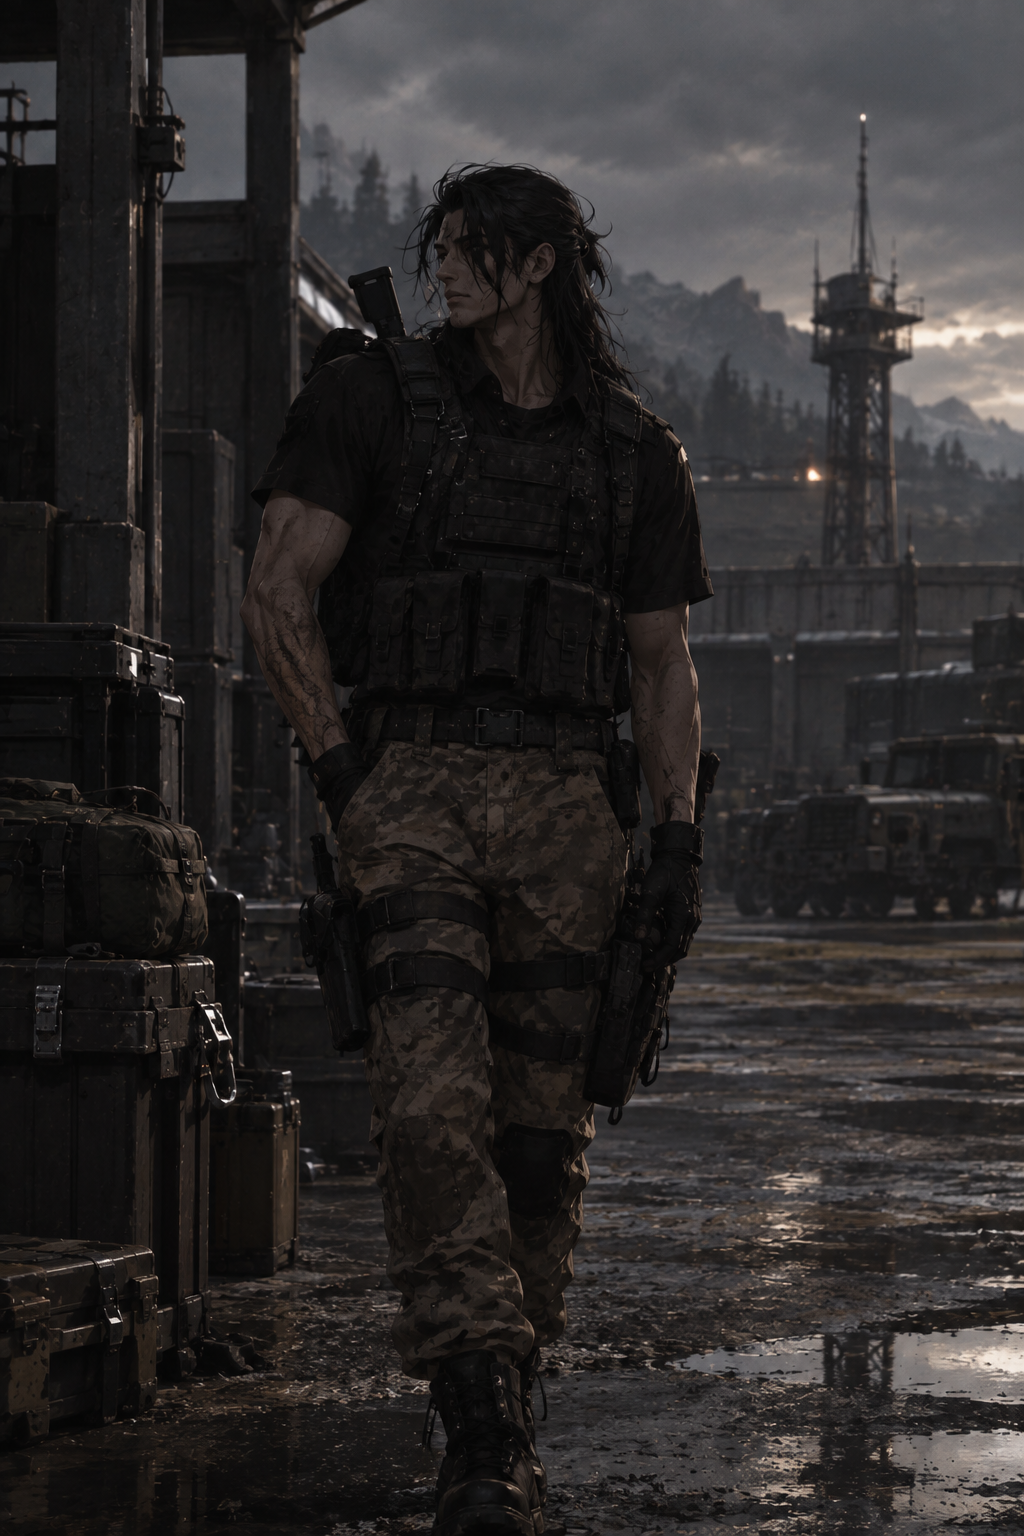
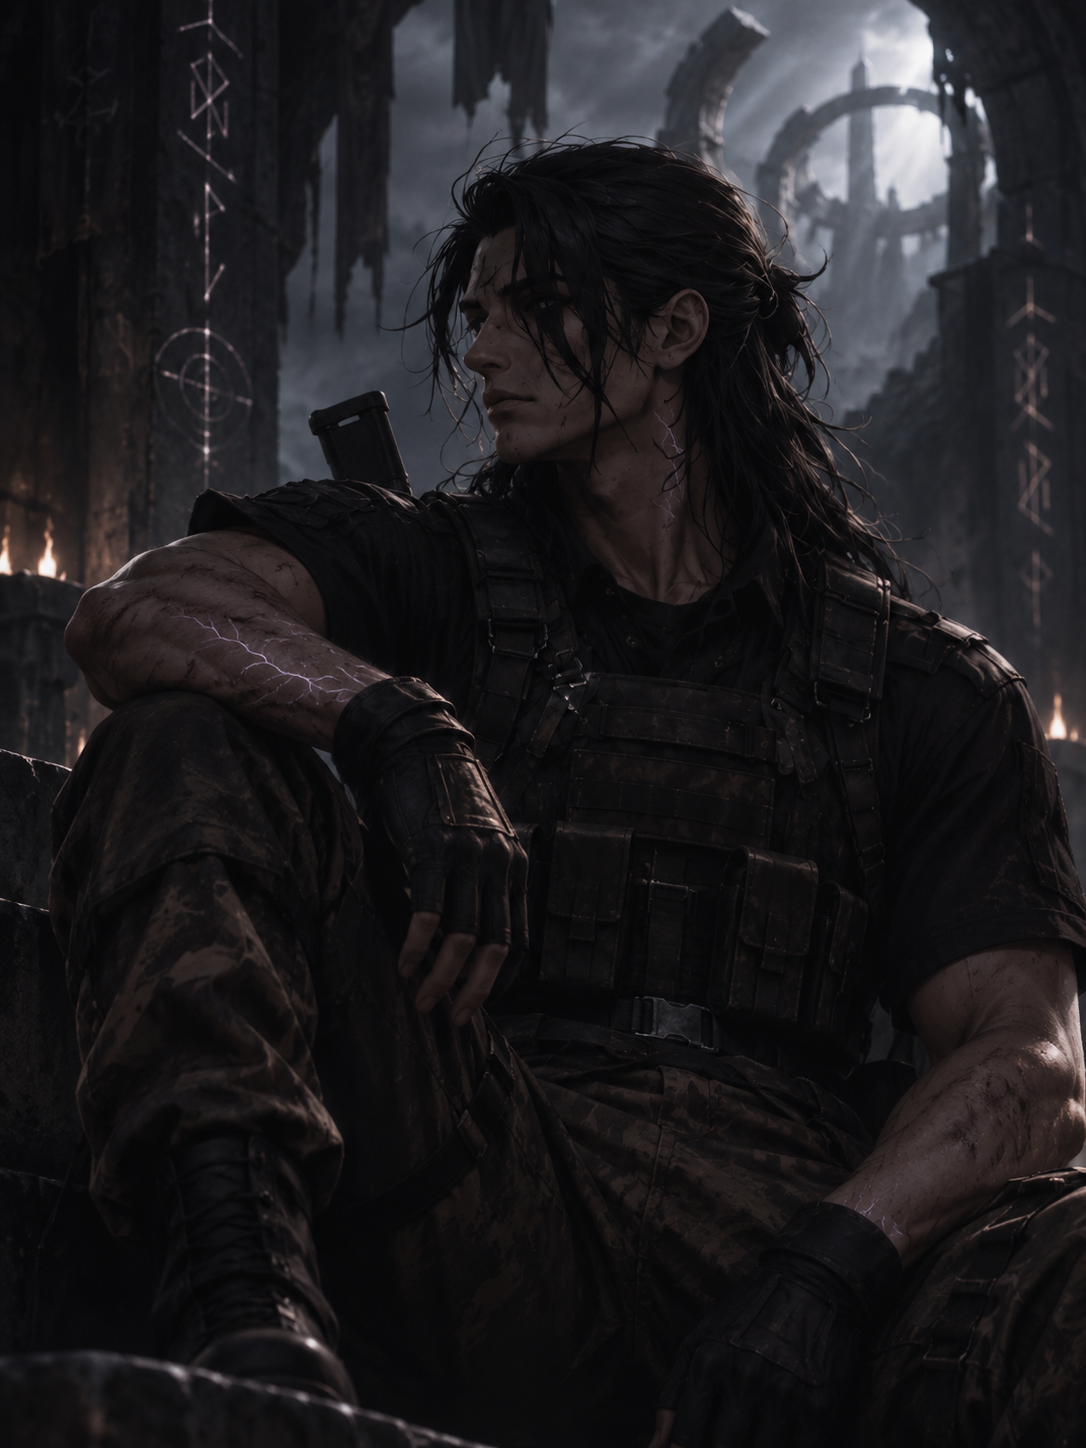
Redesign Zeke dossier and update his portrait

diff --git a/characters/zeke.html b/characters/zeke.html
@@ -9,12 +9,13 @@
   <script src="/aevum-archive/assets/halloween.js?v=20261030-allhallows1"></script>
   <link rel="preload" href="/aevum-archive/assets/fonts/cinzel/Cinzel-Variable.ttf" as="font" type="font/ttf" crossorigin>
   <link rel="stylesheet" href="/aevum-archive/assets/character-dossiers.css?v=20261102-dossiers1">
+  <link rel="stylesheet" href="/aevum-archive/assets/zeke-dossier.css?v=9409f7e7">
 </head>
 <body class="archive-page theme-characters page-detail route-characters-zeke character-dossier">
 <header class="site-header"><a class="brand" href="/aevum-archive/"><img class="brand-mark home-brand-crest" src="/aevum-archive/assets/archive-mark.svg" alt="" width="64" height="64"><span><span class="brand-title">Aevum Archive</span><span class="brand-subtitle">world wiki and living archive</span></span></a><nav class="nav" aria-label="Archive navigation"><a href="/aevum-archive/">Start</a><a href="/aevum-archive/playthroughs/">Playthroughs</a><a href="/aevum-archive/characters/">Characters</a><a href="/aevum-archive/codex/">Codex</a><a href="/aevum-archive/npcs/">NPCs</a><a href="/aevum-archive/lore/">Lore</a><a href="/aevum-archive/events/">Events</a><a href="/aevum-archive/achievements/">Achievements</a><a href="/aevum-archive/leaderboard/">Leaderboard</a><a href="/aevum-archive/world-items/">Relics</a><a href="/aevum-archive/downloads/texture-pack.html">Downloads</a></nav></header>
 <main class="page character-dossier-main"><nav class="dossier-breadcrumb" aria-label="Breadcrumb"><a href="/aevum-archive/characters/">Character archive</a><span aria-hidden="true">/</span><span aria-current="page">Zeke</span></nav>
-  <section class="record-hero" aria-labelledby="dossier-title"><article class="record-panel dossier-identity"><p class="eyebrow">Character record</p><h1 id="dossier-title">Zeke</h1><p class="lede">A player character and elite military operator who disappeared into a temporal rift. No remains and no reliable evidence of death have been recovered.</p><div class="dossier-quick"><div><span>Record status</span><strong class="dossier-state-word">LOST / UNKNOWN</strong></div></div><dl class="dossier-facts"><div><dt>Status</dt><dd>LOST / UNKNOWN</dd></div><div><dt>Field</dt><dd>Special operations</dd></div><div><dt>Training</dt><dd>Elite military</dd></div><div><dt>Last known incident</dt><dd>Temporal rift</dd></div><div><dt>Death confirmed</dt><dd>No</dd></div></dl></article><figure class="dossier-portrait"><img src="/aevum-archive/assets/images/zeke.png" alt="Portrait of Zeke" role="img" aria-label="Portrait of Zeke" width="1024" height="1536" fetchpriority="high" decoding="async"><figcaption class="character-body"><h3>Zeke</h3><p>Special Operations</p><div class="tag-row"><span class="tag purple">Lost / Unknown</span><span class="tag gold">Military</span><span class="tag red">Temporal Rift</span></div></figcaption></figure></section><nav class="dossier-nav" aria-label="Zeke record chapters"><span>The record</span><div><a href="#dossier-chapter-1"><b aria-hidden="true">01</b>Where the record goes silent.</a><a href="#dossier-chapter-2"><b aria-hidden="true">02</b>The operator behind the name.</a></div></nav>
-  <section class="section dossier-chapter" id="dossier-chapter-1"><header class="dossier-section-head"><p class="dossier-kicker">01 / The record</p><h2>Where the record goes silent.</h2></header><div class="dossier-content"><article class="card lore-notes"><h2>Archive notes</h2><ul><li>Zeke earned entry into a special-operations unit through exceptional military training and capability.</li><li>His record is defined by professionalism rather than supernatural authority.</li><li>During a temporal-rift incident, Zeke disappeared from known continuity.</li><li>No body was recovered and no reliable evidence confirms his death.</li><li>The Archive therefore does not classify him as Fallen, Dead or Retired. His status is Lost / Unknown.</li><li>A temporal disappearance leaves an additional uncertainty ordinary missing-person records do not have: “where” may not be the only missing coordinate.</li></ul></article></div></section>
+  <section class="record-hero" aria-labelledby="dossier-title"><article class="record-panel dossier-identity"><p class="eyebrow">Character record</p><h1 id="dossier-title">Zeke</h1><p class="lede">A player character and elite military operator who disappeared into a temporal rift. No remains and no reliable evidence of death have been recovered.</p><div class="dossier-quick"><div><span>Power Level</span><strong class="zeke-power-value">???</strong></div><span class="dossier-status">LOST / UNKNOWN</span></div><dl class="dossier-facts"><div><dt>Status</dt><dd>LOST / UNKNOWN</dd></div><div><dt>Field</dt><dd>Special operations</dd></div><div><dt>Training</dt><dd>Elite military</dd></div><div><dt>Last known incident</dt><dd>Temporal rift</dd></div><div><dt>Death confirmed</dt><dd>No</dd></div></dl></article><figure class="dossier-portrait"><img src="/aevum-archive/assets/images/zeke.png?v=9409f7e7" alt="Portrait of Zeke seated in moonlit ruins" role="img" aria-label="Portrait of Zeke seated in moonlit ruins" width="1086" height="1448" fetchpriority="high" decoding="async"><figcaption class="character-body"><h3>Zeke</h3><p>Special Operations</p><div class="tag-row"><span class="tag purple">Lost / Unknown</span><span class="tag gold">Military</span><span class="tag red">Temporal Rift</span></div></figcaption></figure></section><nav class="dossier-nav" aria-label="Zeke record chapters"><span>The record</span><div><a href="#dossier-chapter-1"><b aria-hidden="true">01</b>Where the record goes silent.</a><a href="#dossier-chapter-2"><b aria-hidden="true">02</b>The operator behind the name.</a></div></nav>
+  <section class="section dossier-chapter" id="dossier-chapter-1"><header class="dossier-section-head"><p class="dossier-kicker">01 / The record</p><h2>Where the record goes silent.</h2></header><div class="dossier-content zeke-incident"><div class="zeke-rift" aria-hidden="true"><i></i><i></i><span></span></div><article class="card lore-notes"><h2>Archive notes</h2><ul><li>Zeke earned entry into a special-operations unit through exceptional military training and capability.</li><li>His record is defined by professionalism rather than supernatural authority.</li><li>During a temporal-rift incident, Zeke disappeared from known continuity.</li><li>No body was recovered and no reliable evidence confirms his death.</li><li>The Archive therefore does not classify him as Fallen, Dead or Retired. His status is Lost / Unknown.</li><li>A temporal disappearance leaves an additional uncertainty ordinary missing-person records do not have: “where” may not be the only missing coordinate.</li></ul></article></div></section>
   <section class="section dossier-chapter " id="dossier-chapter-2"><header class="dossier-section-head"><p class="dossier-kicker">02 / The record</p><h2>The operator behind the name.</h2></header><div class="dossier-content dossier-grid three"><article class="card"><h2>Lost / Unknown</h2><p>The distinction is deliberate. Zeke is absent, not confirmed dead.</p></article><article class="card"><h2>Temporal rift</h2><p>The event removed him from ordinary continuity. What lies beyond that absence remains unknown.</p></article><article class="card"><h2>Operator</h2><p>His strongest confirmed quality is training: controlled movement, weapons discipline and performance under pressure.</p></article></div></section>
   <footer class="footer"><span>&#10022; Aevum Archive &mdash; witnessed knowledge only.</span><span>Unwritten pages remain sealed until discovered.</span></footer>
 </main><script src="/aevum-archive/assets/master-ui.js?v=20260821-2" defer></script></body></html>

diff --git a/assets/zeke-dossier.css b/assets/zeke-dossier.css
@@ -1,0 +1,138 @@
+body.character-dossier.route-characters-zeke {
+  --dossier-rgb: 192 179 219;
+  --dossier-ink: #f1edf3;
+  --dossier-muted: #cbc4cf;
+  background: radial-gradient(ellipse at 65% 0, #423b513d, transparent 65rem), #0b0b0e !important;
+}
+
+body.character-dossier.theme-characters.page-detail.route-characters-zeke .record-hero {
+  grid-template-columns: minmax(0, 43fr) minmax(0, 57fr);
+  align-items: stretch;
+  position: relative;
+  isolation: isolate;
+  min-height: clamp(660px, 56vw, 860px);
+  background: linear-gradient(140deg, #201c27, #101015 65%);
+}
+
+body.character-dossier.theme-characters.page-detail.route-characters-zeke .record-hero > .record-panel {
+  align-self: center;
+  padding: clamp(28px, 4vw, 68px);
+}
+
+body.character-dossier.theme-characters.page-detail.route-characters-zeke .record-hero .record-panel h1 {
+  font-size: clamp(4.5rem, 9vw, 9.5rem);
+  line-height: .93;
+}
+
+.route-characters-zeke .record-hero .dossier-portrait {
+  position: relative;
+  width: 100%;
+  max-width: none;
+  align-self: stretch;
+  background: #101015;
+}
+
+.route-characters-zeke .record-hero .dossier-portrait img {
+  position: absolute;
+  inset: 0;
+  width: 100%;
+  height: 100%;
+  object-fit: cover;
+  object-position: 50% 26%;
+}
+
+.route-characters-zeke .record-hero .dossier-portrait::after {
+  background: linear-gradient(90deg, #141219 0%, transparent 19%),
+    linear-gradient(0deg, #101015 0%, #10101583 13%, transparent 32%);
+}
+
+.route-characters-zeke .dossier-quick {
+  padding: 16px 18px;
+  border: 1px solid var(--dossier-line);
+  background: linear-gradient(105deg, #c0b3db1a, transparent 75%);
+}
+
+.route-characters-zeke .zeke-power-value {
+  margin-top: 4px;
+  color: #e8def5;
+  font-size: clamp(2.7rem, 4vw, 4rem);
+  letter-spacing: .04em;
+}
+
+.route-characters-zeke .dossier-nav {
+  background: #121116;
+}
+
+.zeke-incident {
+  display: grid;
+  grid-template-columns: minmax(0, 2fr) minmax(0, 3fr);
+  align-items: center;
+  gap: clamp(20px, 5vw, 80px);
+  padding: clamp(24px, 4vw, 56px);
+  background: radial-gradient(ellipse at 18% 48%, #51455f2b, transparent 50%), #101015;
+  border: 1px solid var(--dossier-line);
+}
+
+.zeke-incident .lore-notes {
+  padding: 0;
+  border: 0;
+  background: none;
+}
+
+.zeke-rift {
+  position: relative;
+  width: min(100%, 340px);
+  aspect-ratio: 1;
+  margin-inline: auto;
+  isolation: isolate;
+}
+
+.zeke-rift::before,
+.zeke-rift i {
+  content: "";
+  position: absolute;
+  inset: 6%;
+  border: 1px solid #c0b3db44;
+  border-radius: 50%;
+}
+
+.zeke-rift i {
+  inset: 14%;
+  border-style: dashed;
+  border-inline-color: #decceb92;
+  animation: zeke-orbit 42s linear infinite;
+}
+
+.zeke-rift i:nth-child(2) {
+  inset: 24%;
+  border-style: solid;
+  border-inline-color: #c0b3db16;
+  animation-direction: reverse;
+  animation-duration: 29s;
+}
+
+.zeke-rift span {
+  position: absolute;
+  inset: 18% 22%;
+  background: linear-gradient(150deg, #b0a0c45c, #ede2f8 54%, #a988be52 80%);
+  clip-path: polygon(72% 0, 48% 38%, 63% 47%, 31% 69%, 20% 100%, 26% 65%, 53% 46%, 43% 40%);
+  animation: zeke-rift-breathe 7s ease-in-out infinite alternate;
+}
+
+@keyframes zeke-orbit { to { transform: rotate(360deg); } }
+@keyframes zeke-rift-breathe { from { opacity: .54; } to { opacity: 1; } }
+
+@media (max-width: 820px) {
+  body.character-dossier.theme-characters.page-detail.route-characters-zeke .record-hero {
+    grid-template-columns: 1fr;
+    min-height: 0;
+  }
+  .route-characters-zeke .record-hero .dossier-portrait { grid-row: 1; aspect-ratio: 1; }
+  .route-characters-zeke .record-hero .dossier-portrait::after { background: linear-gradient(0deg, #101015, transparent 32%); }
+  .zeke-incident { grid-template-columns: 1fr; }
+  .zeke-rift { width: min(100%, 210px); }
+}
+
+@media (prefers-reduced-motion: reduce) {
+  .zeke-rift i, .zeke-rift span { animation: none; }
+}

diff --git a/CHANGELOG.md b/CHANGELOG.md
@@ -2,6 +2,8 @@
 
 ## 2026-11-14
 
+- Updated Zeke’s portrait and redesigned his dossier around the temporal rift. His Power Level is unknown.
+
 - Recorded Beru as Empyrean-Blooded in his profile and the Trait Codex.
 
 - Added a briefing with clues to the first trace in the Traces of the Old World Expedition Journal.
